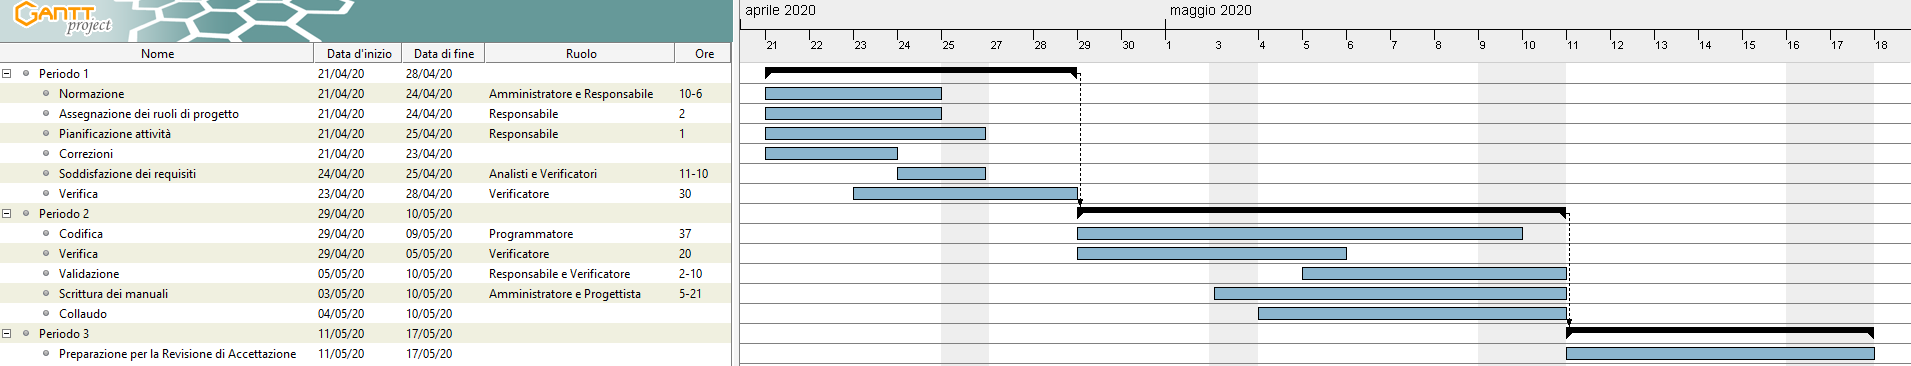
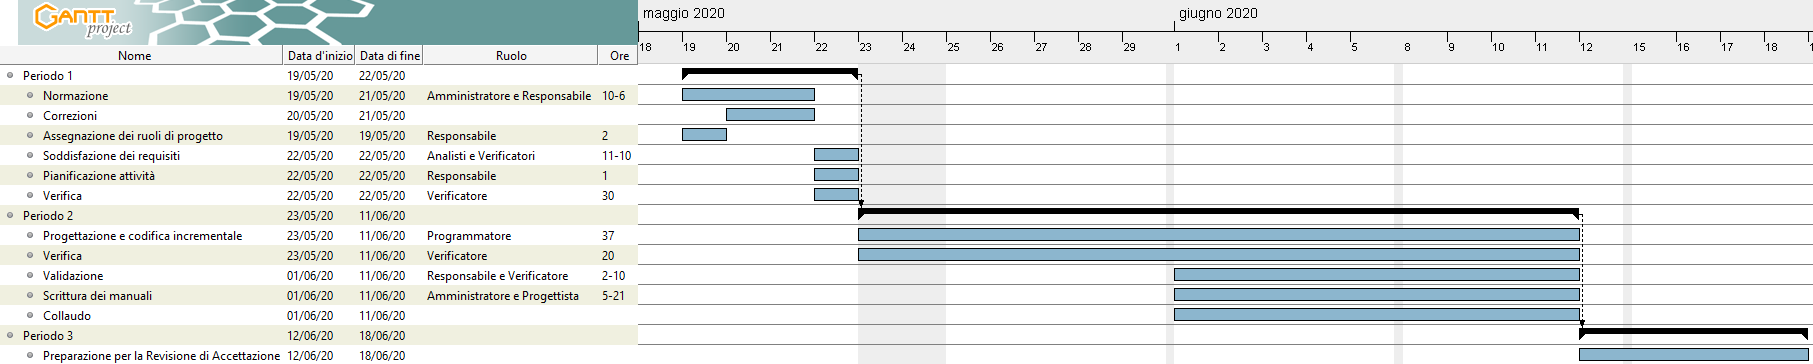
Scritti oltre che nell'immagine anche in testo gli incrementi nel tempo #182

Changed region(s): [[0.0, 0.0, 1.0, 0.9973]]

diff --git a/DocumentazioneEsterna/PianoDiProgetto/Sezioni/Sottosezioni/Pianificazione/PianificazioneTemporaleIncrementi.tex b/DocumentazioneEsterna/PianoDiProgetto/Sezioni/Sottosezioni/Pianificazione/PianificazioneTemporaleIncrementi.tex
@@ -1,3 +1,24 @@
+\subsection{Pianificazione temporale degli incrementi}
+Il periodo 2 della fase di Progettazione di Dettaglio e di Codifica e della fase di Validazione e Collaudo sono in gran parte dedicate alla progettazione e all'implementazione dei requisiti degli incrementi.
+Gli incrementi vengono suddivisi temporalmente come elencati di seguito.
+
+\subsubsection{Incrementi con requisiti obbligatori}
+\begin{itemize}
+	\item Incremento 1: 2020-04-08 $\rightarrow$ 2020-04-12 (5 giorni);
+	\item Incremento 2: 2020-04-13 $\rightarrow$ 2020-04-17 (5 giorni);
+	\item Incremento 3: 2020-04-18 $\rightarrow$ 2020-04-23 (6 giorni);
+	\item Incremento 4: 2020-04-24 $\rightarrow$ 2020-05-01 (8 giorni);
+	\item Incremento 5: 2020-05-02 $\rightarrow$ 2020-05-06 (4 giorni).
+\end{itemize}
+
+\subsubsection{Incrementi con requisiti desiderabili e opzionali}
+\begin{itemize}
+	\item Incremento 6: 2020-05-23 $\rightarrow$ 2020-05-28 (6 giorni);
+	\item Incremento 7: 2020-05-29 $\rightarrow$ 2020-05-31 (3 giorni);
+	\item Incremento 8: 2020-06-01 $\rightarrow$ 2020-06-05 (5 giorni);
+	\item Incremento 9: 2020-06-06 $\rightarrow$ 2020-06-10 (5 giorni);
+\end{itemize}
+
 %PAGINA ORIZZONTALE
 \newpage
 \paperwidth=\pdfpageheight
@@ -10,7 +31,6 @@
 \vsize=\textwidth
 \hsize=\textheight
 
-\subsection{Pianificazione temporale degli incrementi}
 \pagestyle{empty}
 \begin{figure}[h]
 	\centering

diff --git a/DocumentazioneEsterna/PianoDiProgetto/Sezioni/Sottosezioni/Pianificazione/PianificazioneValidazioneCollaudo.tex b/DocumentazioneEsterna/PianoDiProgetto/Sezioni/Sottosezioni/Pianificazione/PianificazioneValidazioneCollaudo.tex
@@ -1,5 +1,5 @@
 \subsection{Validazione e Collaudo}
-Dal 2020-04-21 al 2020-05-17\\
+Dal 2020-05-19 al 2020-06-18\\
 Inizia al termine della fase di Progettazione di Dettaglio e Codifica e finisce con la data di consegna per la Revisione di Accettazione.\\
 In questo fase vengono definite le attività che servono a verificare che il prodotto corrisponda a quello desiderato dal committente e dal proponente.
 
